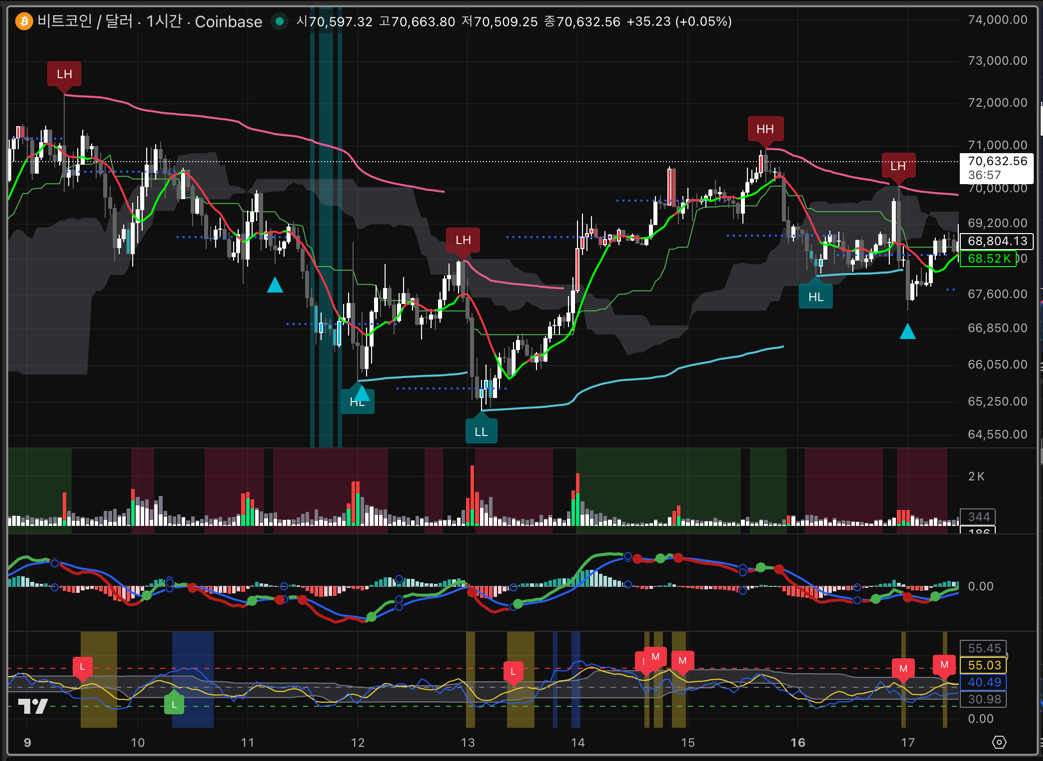
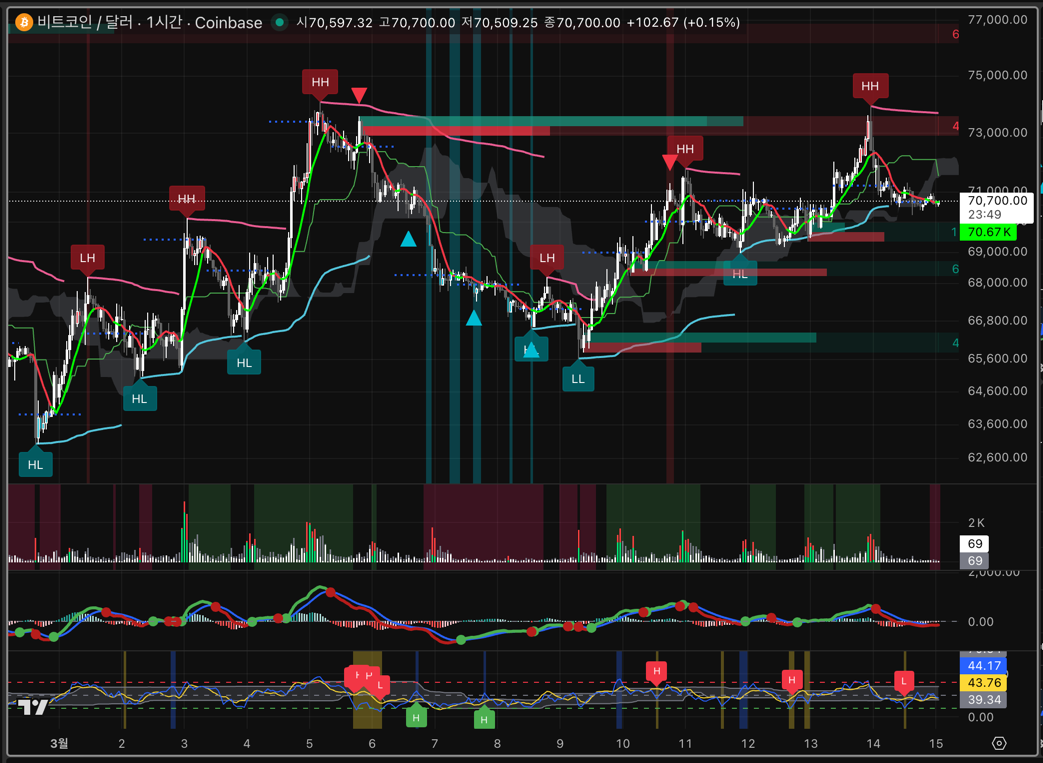
코드 업데이트

diff --git a/pinescript/비정상 가격 추적 (보조)/README.md b/pinescript/비정상 가격 추적 (보조)/README.md
@@ -48,15 +48,14 @@
 - 회색 밴드: 최근 `cRSI` 분포 기반 동적 상단/하단 밴드
 - 노란색 계열 배경: `cRSI > MFI` 괴리 구간
 - 파란색 계열 배경: `MFI > cRSI` 괴리 구간
-- 라벨 `H / M / L`: 최종 반전 위험 강도
+- 라벨 `H / L`: 최종 반전 위험 강도
 
 해석은 아래처럼 보면 됩니다.
 
 - 노란 배경 = 가격 모멘텀이 자금 흐름보다 앞선 상태
 - 파란 배경 = 자금 흐름 대비 가격이 더 눌린 상태
-- `H / M / L` = 반전 위험 강도
+- `H / L` = 반전 위험 강도
   - `H`: 높음
-  - `M`: 중간
   - `L`: 낮음
 
 이 지표는 단독 진입 신호라기보다, `지금 구간이 되돌림 또는 반전 위험이 커지는가`를 먼저 거르는 용도입니다.
@@ -113,7 +112,6 @@
 강도는 최종적으로 아래처럼 단순화됩니다.
 
 - `H`: 높은 반전 위험
-- `M`: 중간 반전 위험
 - `L`: 낮은 반전 위험
 
 ### 4. 확정봉 기준 신호
@@ -126,14 +124,14 @@
 
 1. 먼저 배경색으로 괴리 방향을 확인합니다.
 2. 현재 `cRSI`가 `80/20` 또는 동적 밴드 극단부 근처인지 봅니다.
-3. `H / M / L` 라벨이 붙는지 확인합니다.
-4. `H`부터 우선 감시하고, `M`, `L`은 보조 후보로 봅니다.
+3. `H / L` 라벨이 붙는지 확인합니다.
+4. `H`부터 우선 감시하고, `L`은 보조 후보로 봅니다.
 5. 실제 매매 판단은 가격 구조, 추세, 거래량, 상위 타임프레임과 함께 확인합니다.
 
 간단히 해석하면:
 
-- 파란 배경 + `H/M/L` = 눌림 이후 반등 위험 증가 후보
-- 노란 배경 + `H/M/L` = 과열 이후 조정 위험 증가 후보
+- 파란 배경 + `H/L` = 눌림 이후 반등 위험 증가 후보
+- 노란 배경 + `H/L` = 과열 이후 조정 위험 증가 후보
 - 배경만 있고 라벨 없음 = 아직 조건이 덜 모인 상태
 
 ## 알람
@@ -144,14 +142,12 @@
 
 - `Bearish Reversal Risk`
 - `Bullish Reversal Risk`
-- `Bearish Reversal Risk (3)`
-- `Bearish Reversal Risk (2)`
-- `Bearish Reversal Risk (1)`
-- `Bullish Reversal Risk (3)`
-- `Bullish Reversal Risk (2)`
-- `Bullish Reversal Risk (1)`
+- `Bearish Reversal Risk (H)`
+- `Bearish Reversal Risk (L)`
+- `Bullish Reversal Risk (H)`
+- `Bullish Reversal Risk (L)`
 
-강한 신호만 받고 싶으면 `(3)` 위주로 쓰면 됩니다.
+강한 신호만 받고 싶으면 `(H)` 위주로 쓰면 됩니다.
 
 ## 입력값 요약
 
